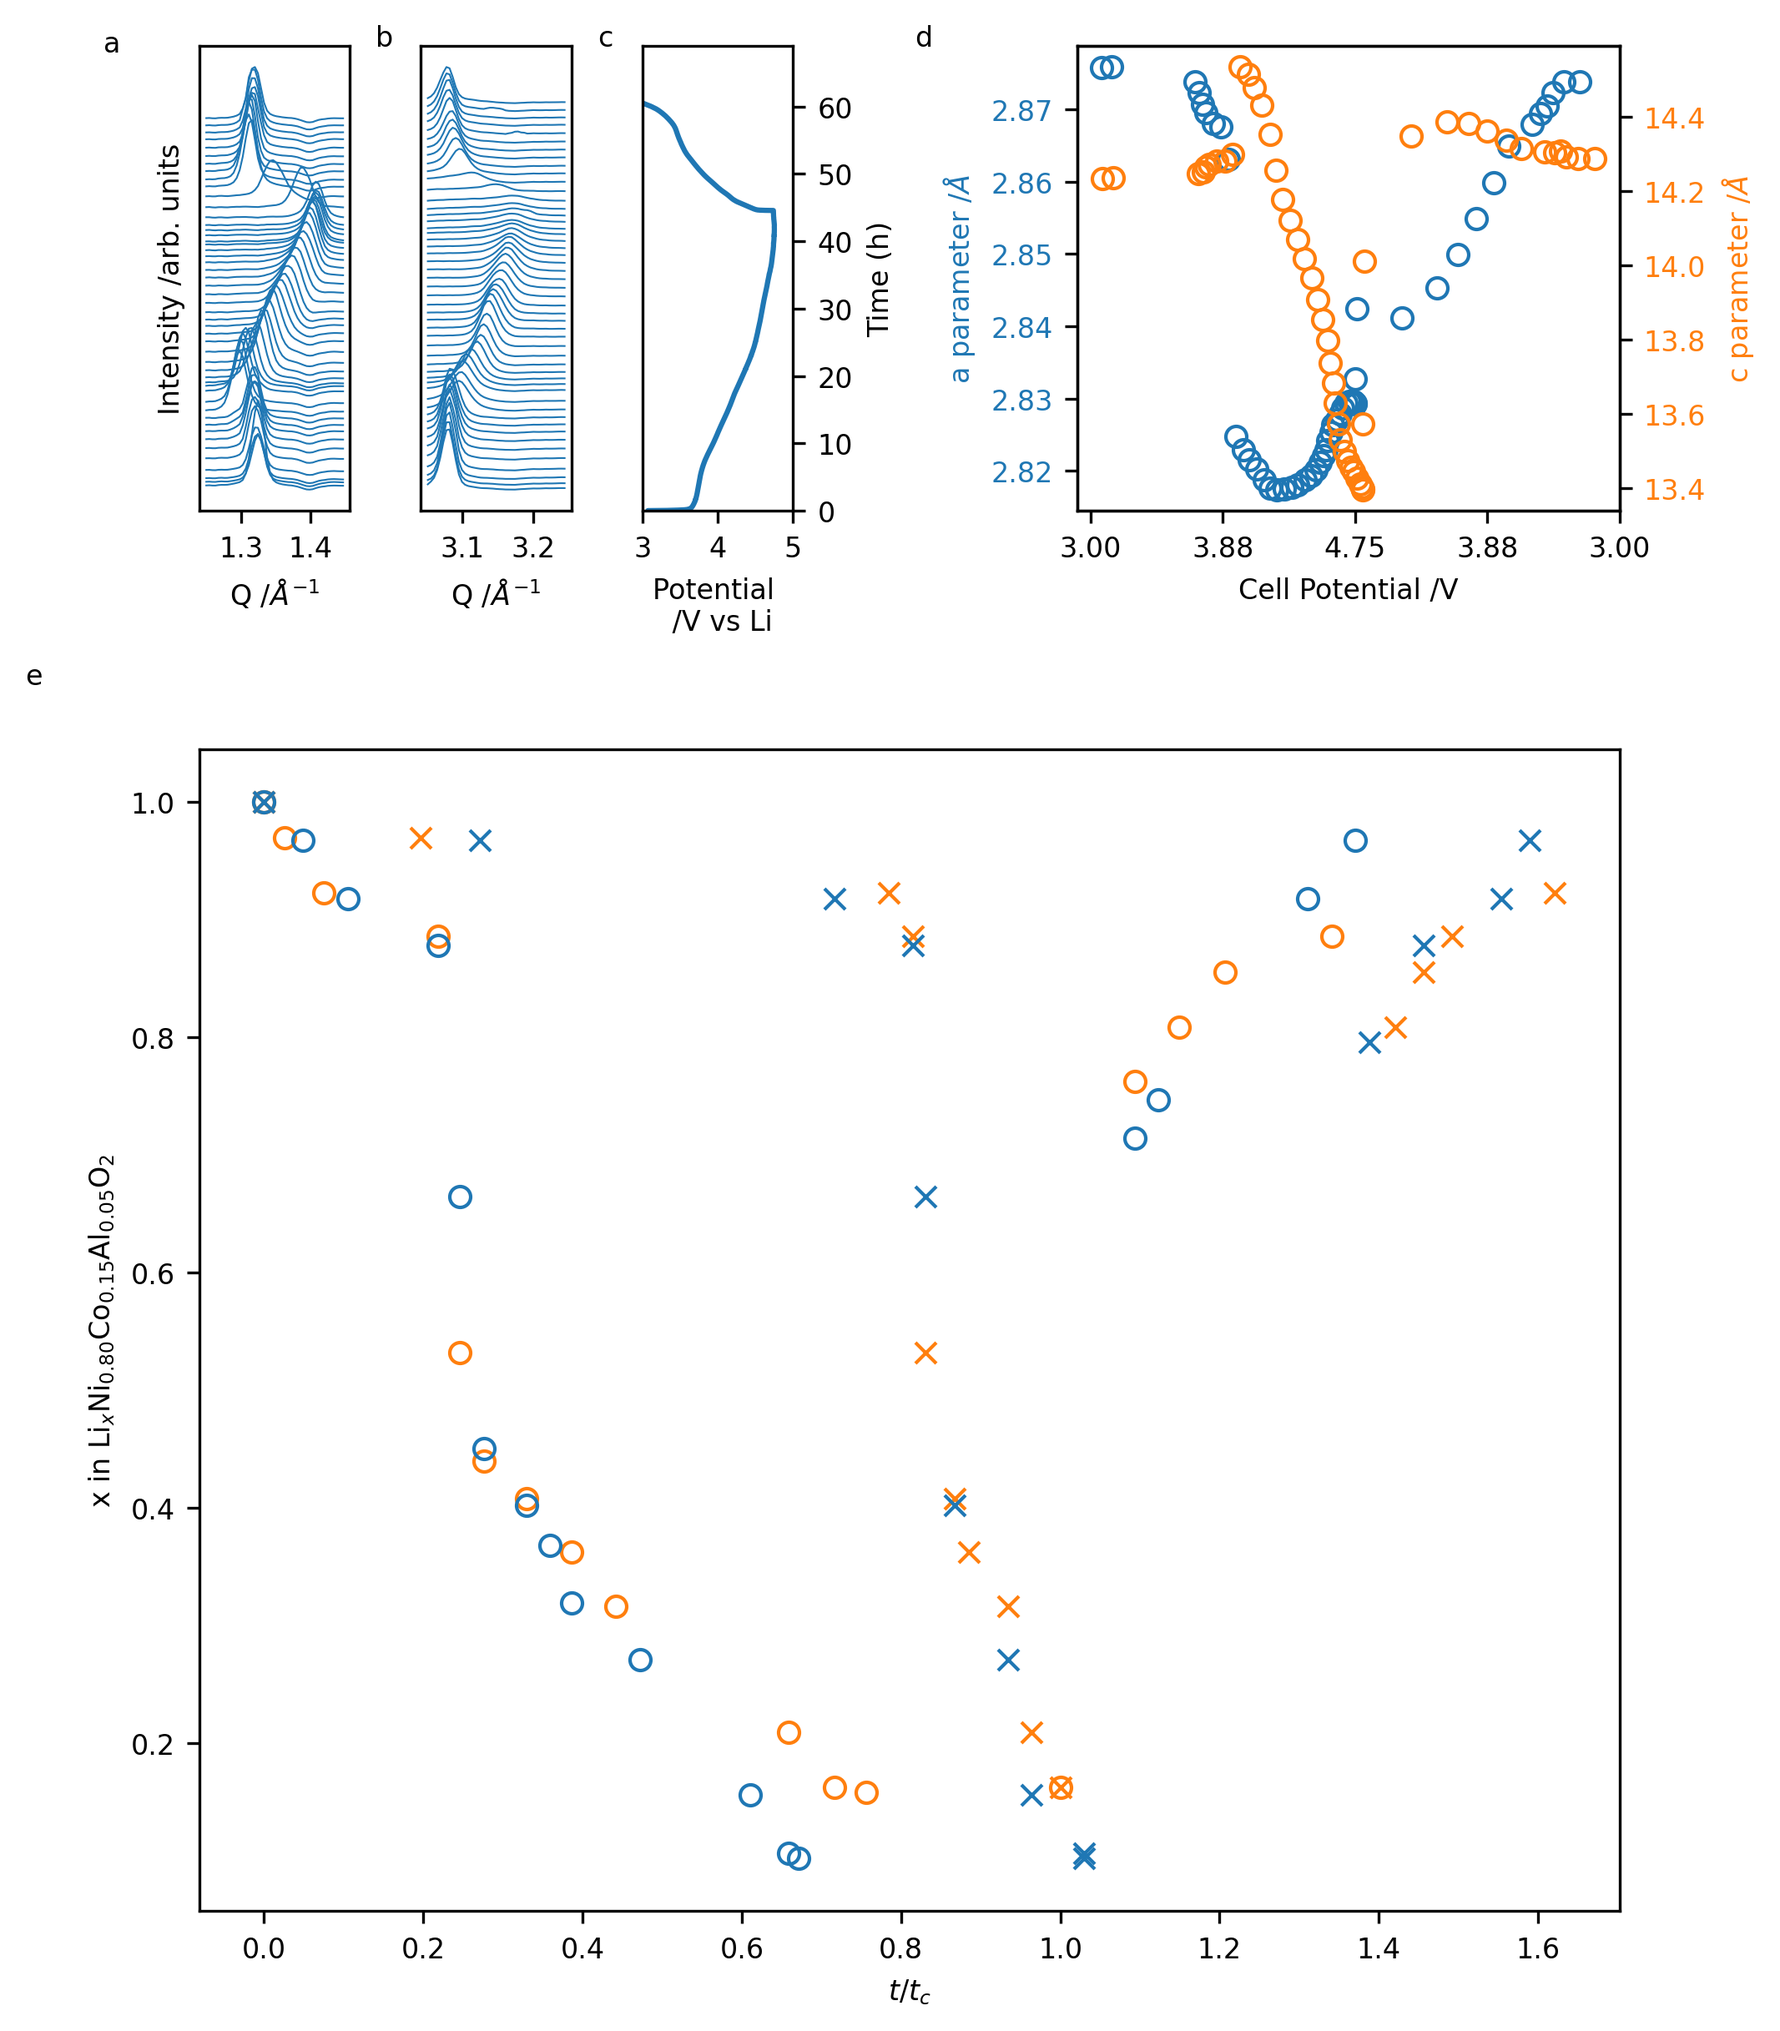
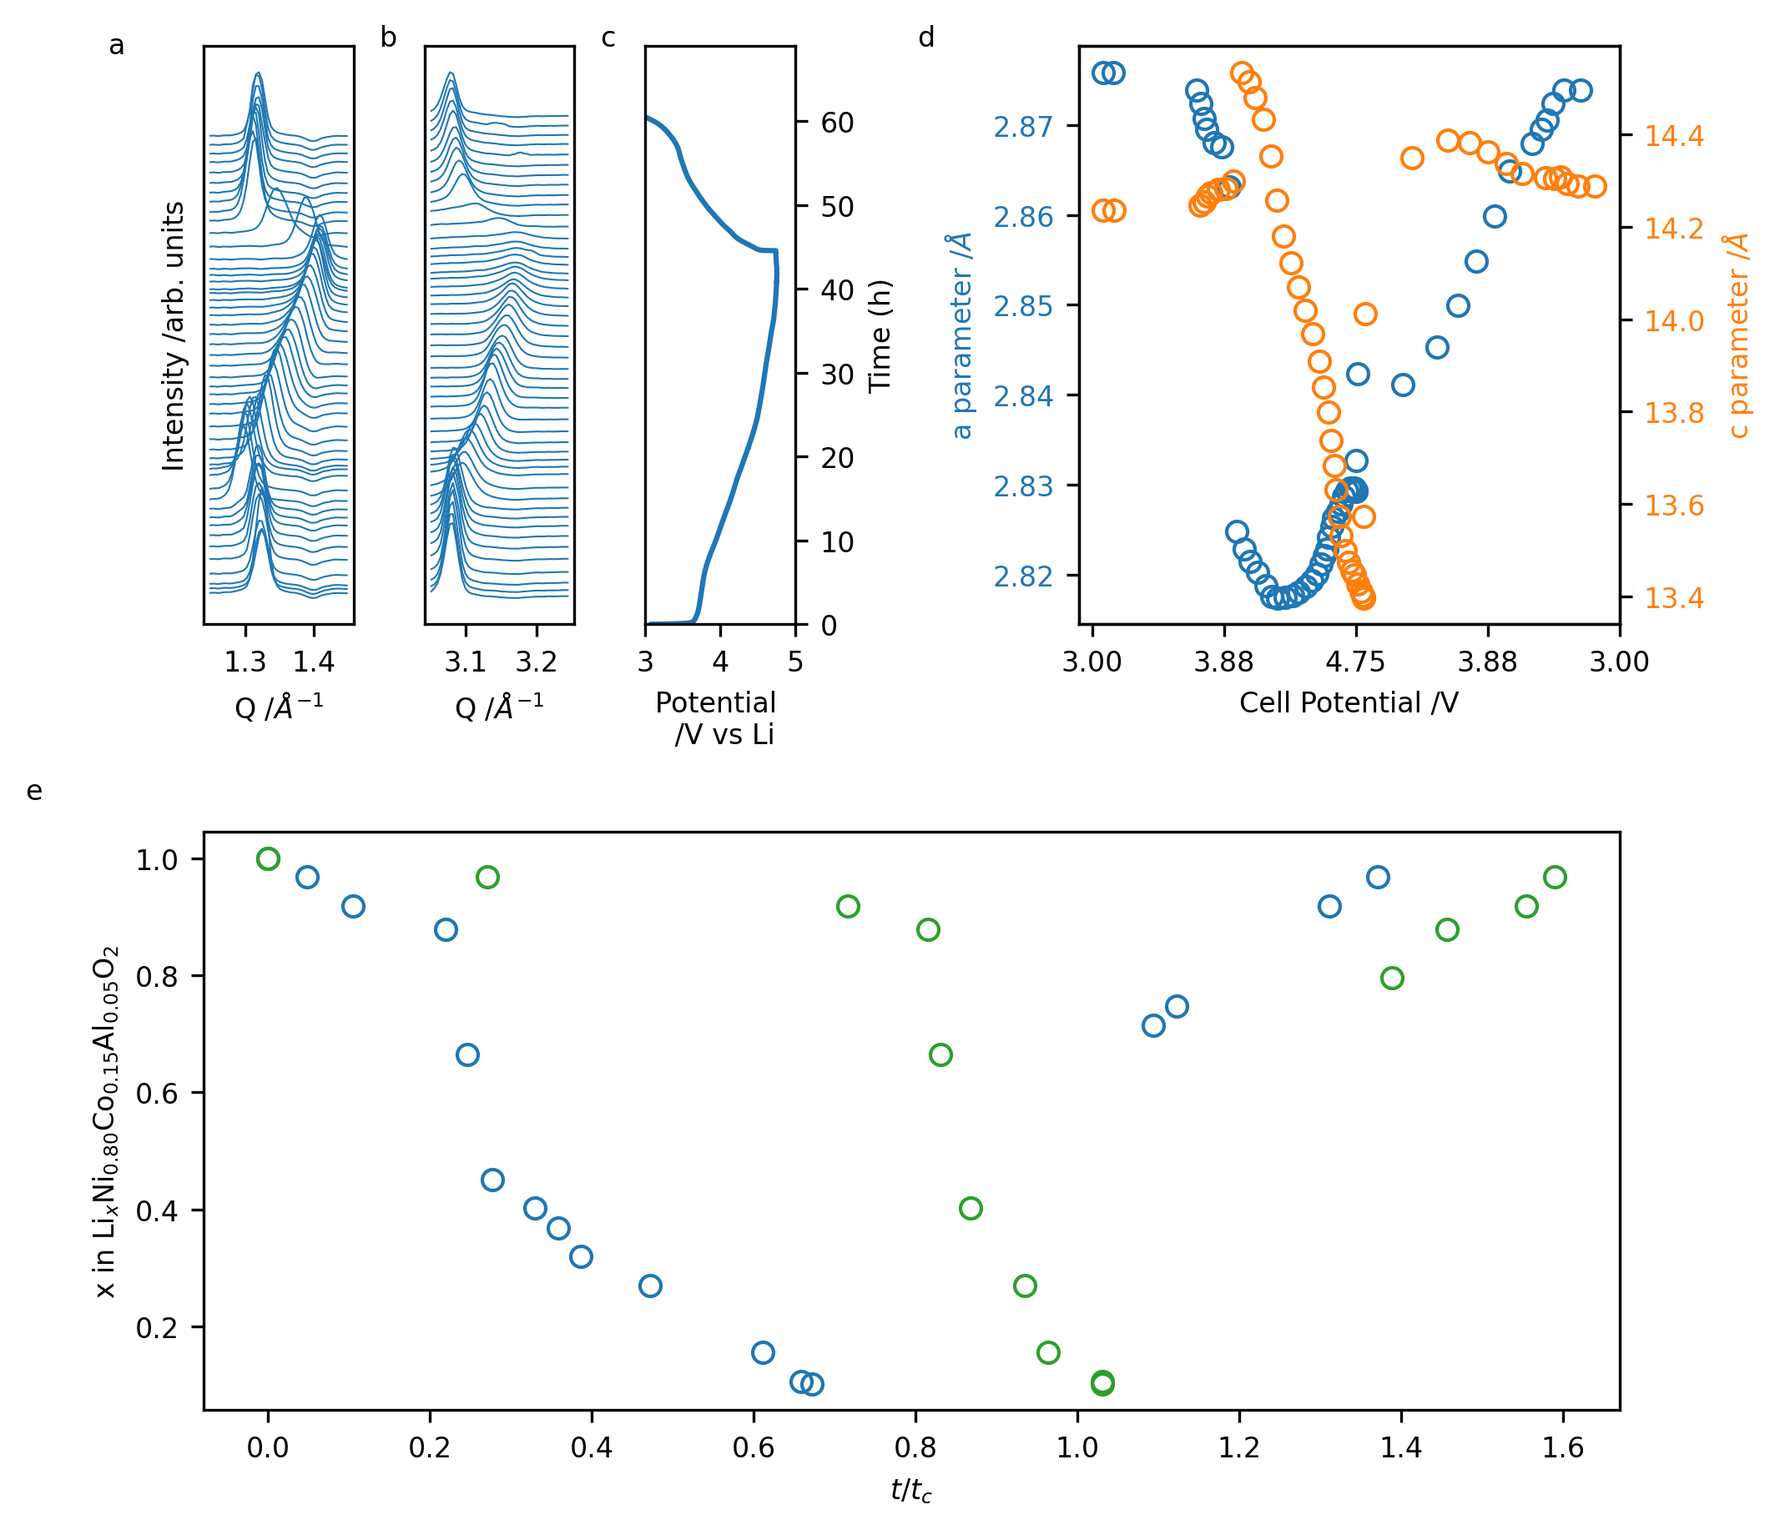
Added Brian's updated XRD figure.

diff --git a/main.tex b/main.tex
@@ -29,7 +29,9 @@
 
 \begin{figure}
   \includegraphics{figures/NCA_xrd.png}
-  \caption{}
+  \caption{Operando \gls{xrd} of \nca{} secondary particle
+    agglomerates during first charge. \todo{Write a more detailed
+      caption.}}
 \end{figure}
 
 \begin{figure}

diff --git a/acronyms.tex b/acronyms.tex
@@ -1,2 +1,3 @@
+\newacronym{xrd}{PXRD}{powder X-ray diffraction}
 \newacronym{txm}{TXM}{transmission X-ray microscopy}
 \newacronym{xas}{XAS}{X-ray absorbance spectroscopy}
